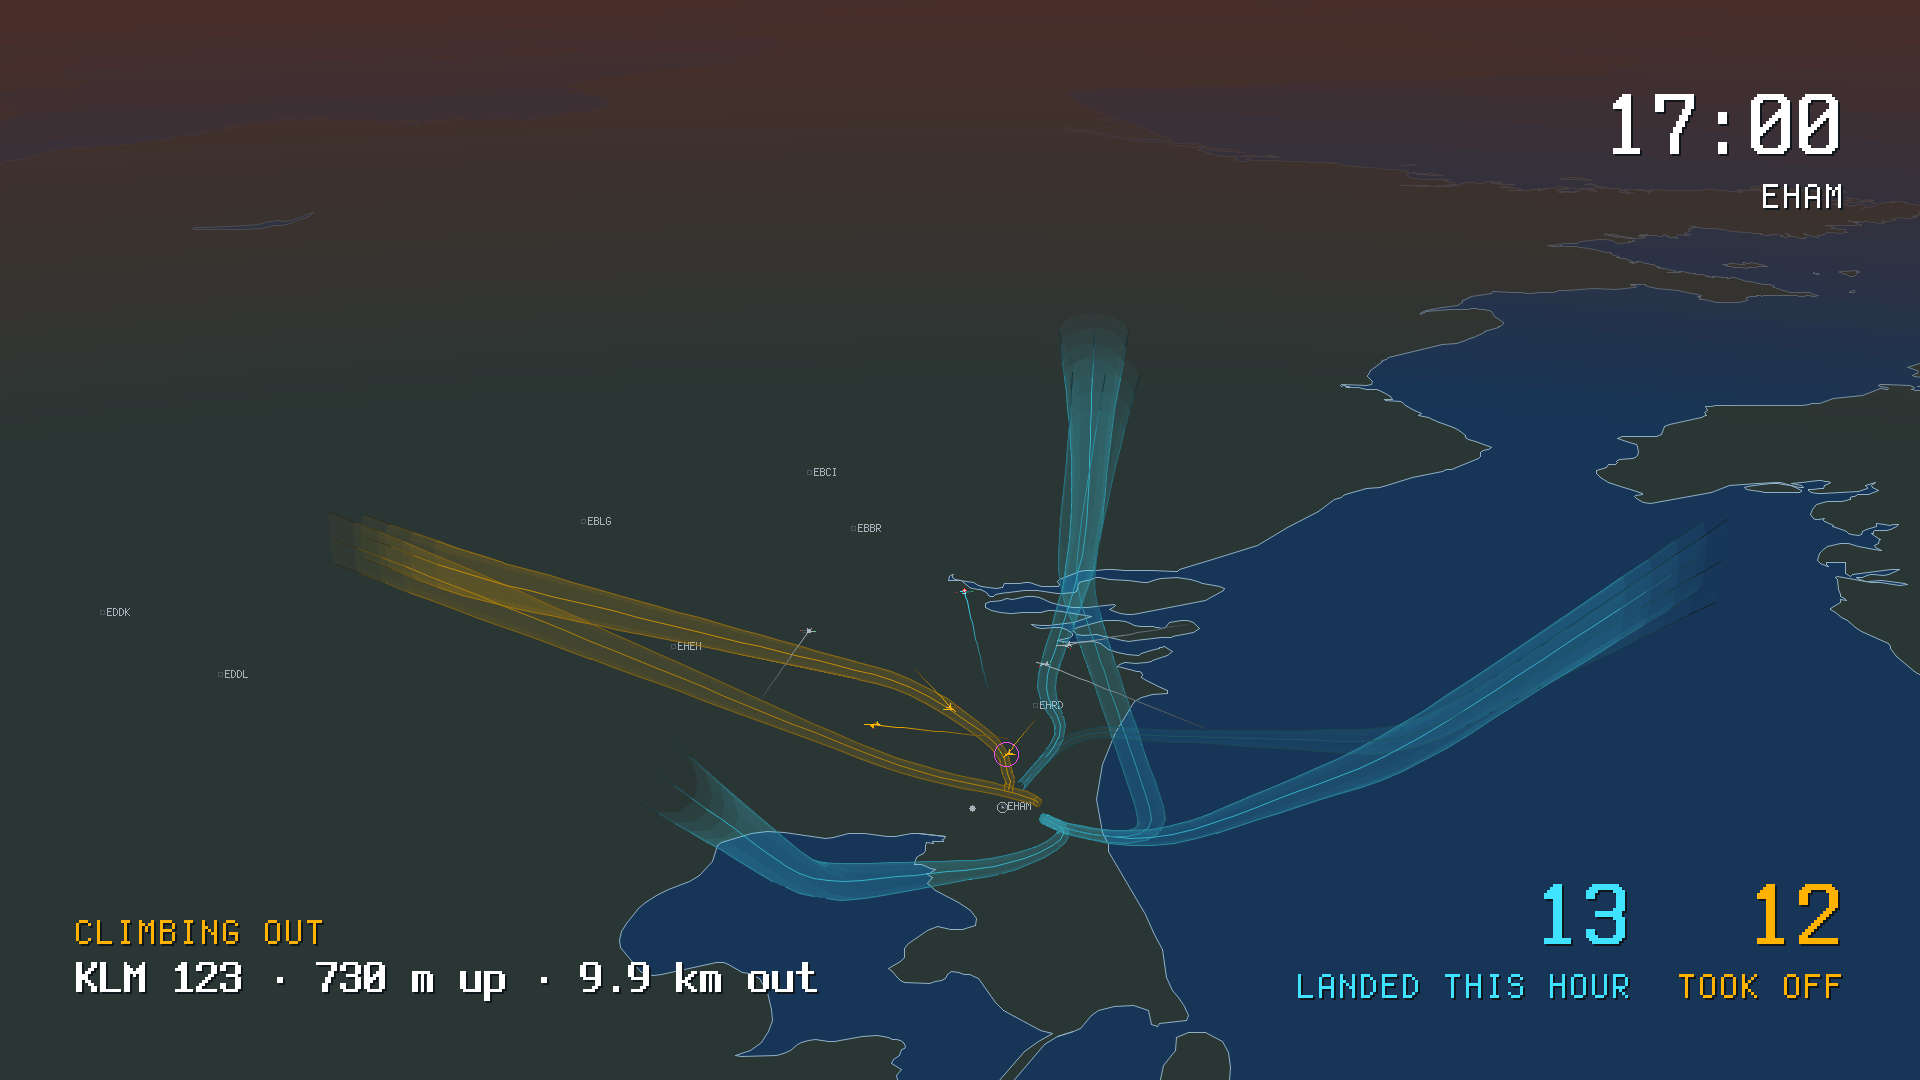
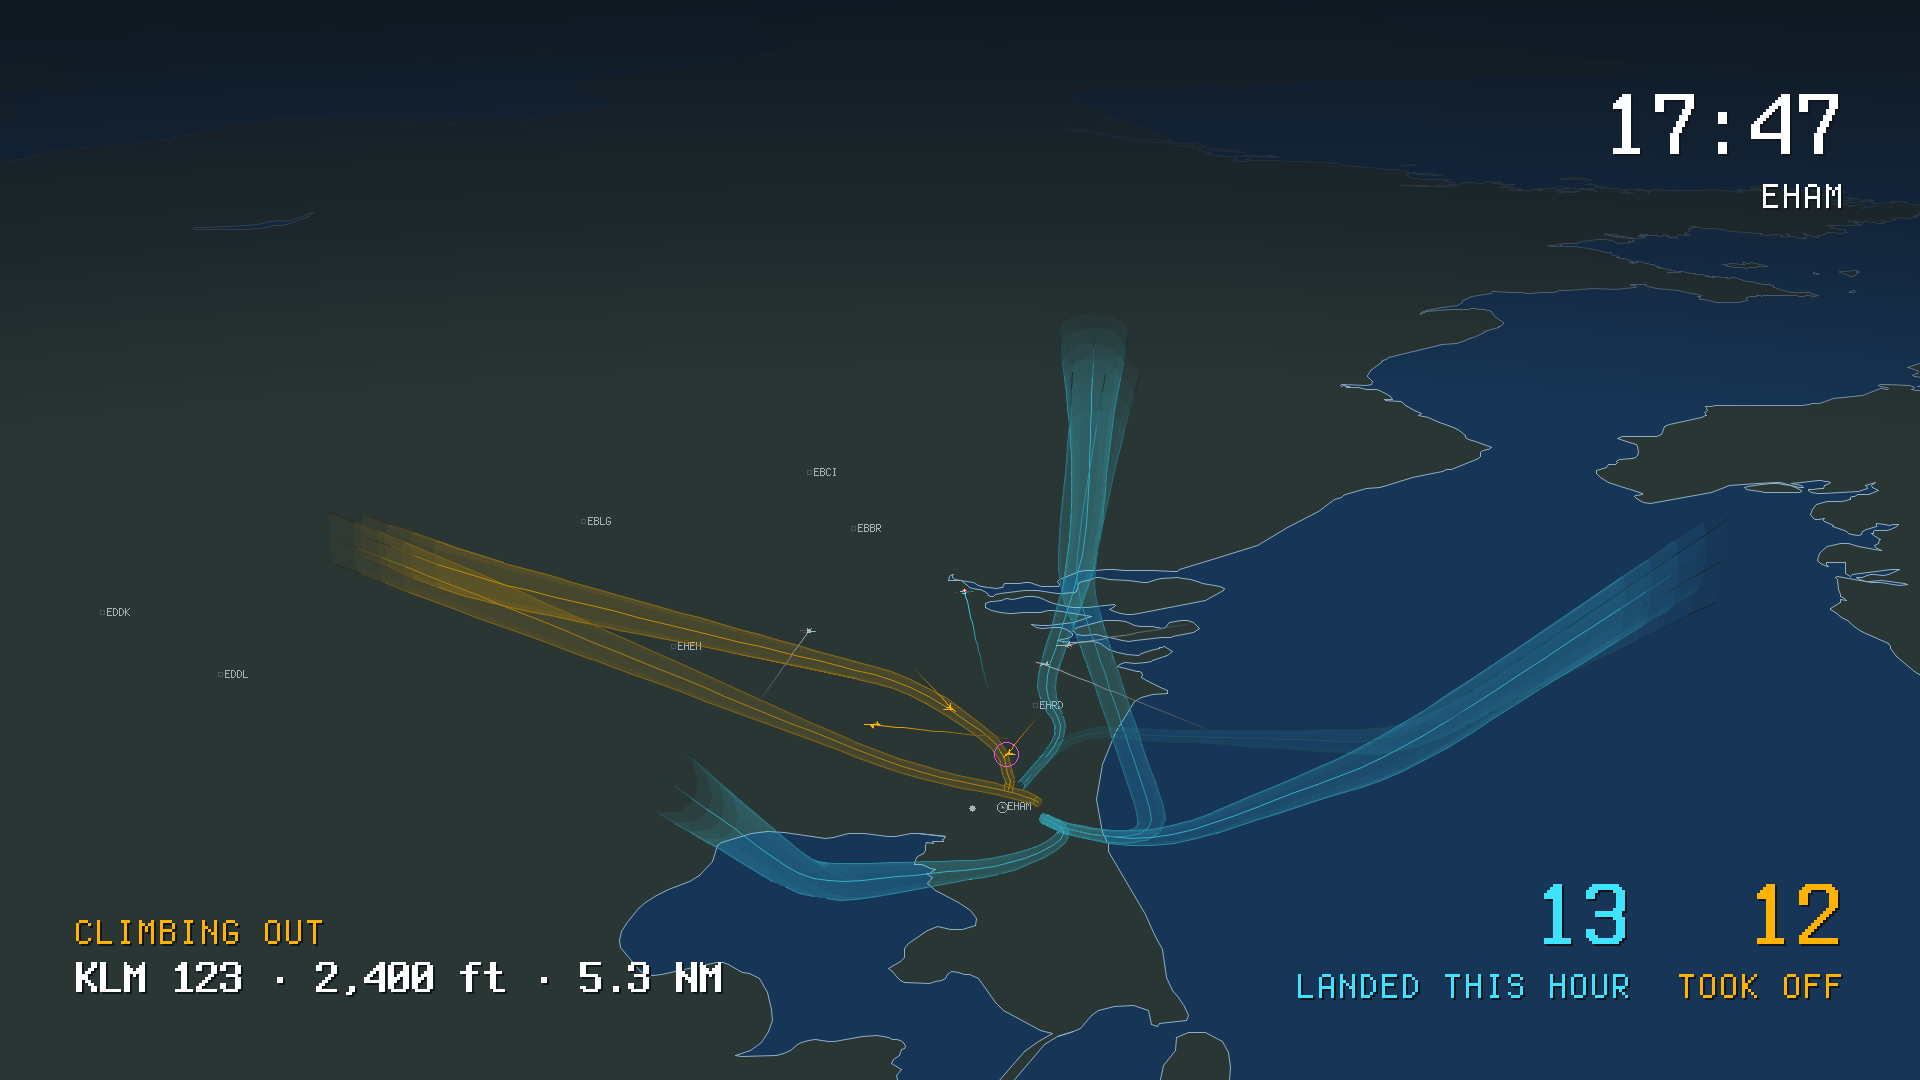
Give the window caption in feet and nautical miles
uScope keeps aviation's units throughout, so the caption now reads
KLM 123 · 2,400 ft · 5.3 NM: altitude to the nearest 50 ft with thousands
separated, distance in tenths of a mile under 10 NM. The reach is 15 NM for
arrivals and 8 NM for departures. captionHeight is the one place the height
comes from. The fallback stills now use a Swiss callsign, since Corendon's
name fits beside the count in the shorter units.

Changed region(s): [[0.0, 0.0, 1.0, 0.2444], [0.3125, 0.8861, 0.4375, 0.9167], [0.1562, 0.8861, 0.2812, 0.9167]]

diff --git a/internal/radar/window.go b/internal/radar/window.go
@@ -58,11 +58,11 @@ const (
 	// windowTracking spaces the small capitals out by one glyph pixel.
 	windowTracking = 1
 
-	// arrivalReachKm and departureReachKm are how close to the field an
+	// arrivalReachNm and departureReachNm are how close to the field an
 	// aircraft has to be for the caption to name it. An arrival is worth
 	// watching from further out, since it is coming towards the field.
-	arrivalReachKm   = 25.0
-	departureReachKm = 15.0
+	arrivalReachNm   = 15.0
+	departureReachNm = 8.0
 
 	// captionHold is the shortest time the caption stays on one aircraft, so
 	// it is on screen long enough to read before it moves to another.
@@ -75,35 +75,30 @@ const (
 	// so the figure does not drop to zero on the hour.
 	movementWindow = time.Hour
 
-	// kmPerNm and metresPerFoot turn the scene's nautical units into the
-	// metric ones a general audience reads.
-	kmPerNm       = 1.852
-	metresPerFoot = 0.3048
+	// feetStep rounds the caption's height to 50 ft. Altitude is reported
+	// in 25 ft steps, and a figure that flickers between two of them on
+	// every report is harder to read from across a room than it is worth.
+	feetStep = 50
 
-	// metresStep rounds a height to tens of metres. A pressure altitude is
-	// reported in 25 ft steps, so the last metre would be a figure nobody
-	// measured.
-	metresStep = 10
-
-	// tenthsBelowKm is the distance under which the caption gives tenths of
-	// a kilometre, because a final approach covers the last ten in a few
+	// tenthsBelowNm is the distance under which the caption gives tenths of
+	// a nautical mile, because a final approach covers the last ten in a few
 	// minutes and a whole number would sit still for most of it.
-	tenthsBelowKm = 10
+	tenthsBelowNm = 10
 
 	// callsignPrefix is how many letters of a callsign name the operator.
 	callsignPrefix = 3
 )
 
-// The overlay's words. The caption's units follow the owner's ruling that the
-// audience is the general public: metres up and kilometres out.
+// The overlay's words. The caption keeps aviation's units, as the rest of the
+// scope does: altitude in feet and distance in nautical miles.
 const (
 	captionInText    = "COMING IN NOW"
 	captionOutText   = "CLIMBING OUT"
 	landedLabel      = "LANDED THIS HOUR"
 	tookOffLabel     = "TOOK OFF"
 	captionSeparator = " · "
-	captionUp        = " m up"
-	captionOut       = " km out"
+	captionFeet      = " ft"
+	captionNm        = " NM"
 	captionSpace     = " "
 )
 
@@ -120,12 +115,12 @@ type caption struct {
 	name     string
 	number   string
 	callsign string
-	metres   float64
-	km       float64
+	nm       float64
 
 	// latitude, longitude and altitudeFt are where the aircraft was last
 	// seen, which is where its ring stays while the caption fades out after
-	// the aircraft has left the frame.
+	// the aircraft has left the frame. altitudeFt is also what captionHeight
+	// turns into the caption's height.
 	latitude, longitude, altitudeFt float64
 
 	// shownAt is the render clock the caption came up at, and leaveAt the
@@ -240,8 +235,8 @@ func (s *Scene) drawWindowClock(lay *layout, win *windowLayout, frame source.Fra
 
 // followCaption decides which aircraft the caption is on for this frame.
 //
-// The nearest arrival within arrivalReachKm wins, then the nearest departure
-// within departureReachKm. Once on an aircraft the caption keeps it for at
+// The nearest arrival within arrivalReachNm wins, then the nearest departure
+// within departureReachNm. Once on an aircraft the caption keeps it for at
 // least captionHold, then goes when the aircraft stops qualifying or when a
 // departure is held and an arrival has turned up. It always fades out before
 // it changes aircraft, so two names never cross on screen. An aircraft that
@@ -334,7 +329,7 @@ type captionPick struct {
 func (s *Scene) captionCandidate(frame source.Frame) captionPick {
 	arrival := captionPick{class: source.TrackInbound}
 	departure := captionPick{class: source.TrackOutbound}
-	arrivalKm, departureKm := math.Inf(1), math.Inf(1)
+	arrivalNm, departureNm := math.Inf(1), math.Inf(1)
 
 	for _, plane := range frame.Planes {
 		class, near := s.captionClass(plane, frame.Corridors)
@@ -342,13 +337,13 @@ func (s *Scene) captionCandidate(frame source.Frame) captionPick {
 			continue
 		}
 
-		distanceKm := frame.Corridors.Field.DistanceToNm(plane.Latitude, plane.Longitude) * kmPerNm
+		distanceNm := frame.Corridors.Field.DistanceToNm(plane.Latitude, plane.Longitude)
 
 		switch {
-		case class == source.TrackInbound && distanceKm < arrivalKm:
-			arrival.plane, arrival.found, arrivalKm = plane, true, distanceKm
-		case class == source.TrackOutbound && distanceKm < departureKm:
-			departure.plane, departure.found, departureKm = plane, true, distanceKm
+		case class == source.TrackInbound && distanceNm < arrivalNm:
+			arrival.plane, arrival.found, arrivalNm = plane, true, distanceNm
+		case class == source.TrackOutbound && distanceNm < departureNm:
+			departure.plane, departure.found, departureNm = plane, true, distanceNm
 		default:
 		}
 	}
@@ -372,13 +367,13 @@ func (s *Scene) captionClass(plane airplane.Snapshot, field source.Corridors) (s
 	}
 
 	class := field.Classify(plane)
-	distanceKm := field.Field.DistanceToNm(plane.Latitude, plane.Longitude) * kmPerNm
+	distanceNm := field.Field.DistanceToNm(plane.Latitude, plane.Longitude)
 
 	switch class {
 	case source.TrackInbound:
-		return class, distanceKm <= arrivalReachKm
+		return class, distanceNm <= arrivalReachNm
 	case source.TrackOutbound:
-		return class, distanceKm <= departureReachKm
+		return class, distanceNm <= departureReachNm
 	case source.TrackTransit:
 		fallthrough
 	default:
@@ -417,8 +412,15 @@ func (c *caption) describe(plane airplane.Snapshot, field source.Airfield) {
 	}
 
 	c.latitude, c.longitude, c.altitudeFt = plane.Latitude, plane.Longitude, plane.Altitude
-	c.metres = plane.Altitude * metresPerFoot
-	c.km = field.DistanceToNm(plane.Latitude, plane.Longitude) * kmPerNm
+	c.nm = field.DistanceToNm(plane.Latitude, plane.Longitude)
+}
+
+// captionHeight is the height the caption gives for an altitude, both in
+// feet, and false when there is none to give. A snapshot says it has no
+// altitude with zero, and a figure at or under it is not worth a caption.
+// It is the one place the caption's height comes from.
+func (*Scene) captionHeight(altitudeFt float64) (float64, bool) {
+	return altitudeFt, altitudeFt > 0
 }
 
 // alpha is how far the caption has come up, from zero to one.
@@ -507,16 +509,16 @@ func (s *Scene) captionLine(pen *windowPen, alpha float64, form captionForm, dra
 		pen.draw(held.callsign, s.pal.Ink, alpha)
 	}
 
-	if held.metres > 0 {
+	if feet, known := s.captionHeight(held.altitudeFt); known {
 		pen.draw(captionSeparator, s.pal.Ink, alpha)
-		pen.drawBytes(s.metresFigure(held.metres), s.pal.Ink, alpha)
-		pen.draw(captionUp, s.pal.Ink, alpha)
+		pen.drawBytes(s.feetFigure(feet), s.pal.Ink, alpha)
+		pen.draw(captionFeet, s.pal.Ink, alpha)
 	}
 
 	if form != formNoDistance {
 		pen.draw(captionSeparator, s.pal.Ink, alpha)
-		pen.drawBytes(s.kmFigure(held.km), s.pal.Ink, alpha)
-		pen.draw(captionOut, s.pal.Ink, alpha)
+		pen.drawBytes(s.nmFigure(held.nm), s.pal.Ink, alpha)
+		pen.draw(captionNm, s.pal.Ink, alpha)
 	}
 
 	end := pen.x
@@ -525,19 +527,20 @@ func (s *Scene) captionLine(pen *windowPen, alpha float64, form captionForm, dra
 	return end
 }
 
-// metresFigure writes a height to the nearest ten metres.
-func (s *Scene) metresFigure(metres float64) []byte {
-	return s.whole(math.Round(metres/metresStep) * metresStep)
+// feetFigure writes a height to the nearest feetStep, with the thousands
+// separated the way the scope's other altitudes are.
+func (s *Scene) feetFigure(feet float64) []byte {
+	return s.thousands(math.Round(feet/feetStep) * feetStep)
 }
 
-// kmFigure writes a distance in tenths under tenthsBelowKm and in whole
-// kilometres from there out.
-func (s *Scene) kmFigure(km float64) []byte {
-	if km < tenthsBelowKm {
-		return s.fixed(km, 1)
+// nmFigure writes a distance in tenths under tenthsBelowNm and in whole
+// nautical miles from there out.
+func (s *Scene) nmFigure(nm float64) []byte {
+	if nm < tenthsBelowNm {
+		return s.fixed(nm, 1)
 	}
 
-	return s.whole(km)
+	return s.whole(nm)
 }
 
 // measureMovements is the x the hourly count starts at, measured before

diff --git a/internal/radar/window_internal_test.go b/internal/radar/window_internal_test.go
@@ -16,11 +16,11 @@ import (
 // The aircraft the caption tests place east of boardCorridors' field, in
 // nautical miles, and how they fly there.
 const (
-	windowArrivalNm      = 12.0 // 22 km, inside the arrival reach
+	windowArrivalNm      = 12.0 // inside the arrival reach
 	windowNearArrivalNm  = 8.0
-	windowFarArrivalNm   = 16.0 // 30 km, outside it
-	windowDepartureNm    = 5.0  // 9 km, inside the departure reach
-	windowFarDepartureNm = 10.0 // 18.5 km, outside it
+	windowFarArrivalNm   = 16.0 // outside it
+	windowDepartureNm    = 5.0  // inside the departure reach
+	windowFarDepartureNm = 10.0 // outside it
 
 	windowDescentFpm = -800
 	windowClimbFpm   = 1500
@@ -317,11 +317,11 @@ func TestCaptionDescribe(t *testing.T) {
 		altitudeFt           float64
 		wantName, wantNumber string
 		wantCallsign         string
-		wantMetres           float64
+		wantFeet             float64
 	}{
 		{
 			name: "a known operator", icao: lightICAO, callsign: "KLM1452 ", altitudeFt: 2100,
-			wantName: sampleICAO, wantNumber: "1452", wantCallsign: "KLM1452", wantMetres: 2100 * metresPerFoot,
+			wantName: sampleICAO, wantNumber: "1452", wantCallsign: "KLM1452", wantFeet: 2100,
 		},
 		{
 			name: "an unknown prefix", icao: lightICAO, callsign: windowUnknownCallsign,
@@ -352,12 +352,12 @@ func TestCaptionDescribe(t *testing.T) {
 					held.name, held.number, testCase.wantName, testCase.wantNumber)
 			}
 
-			if held.metres != testCase.wantMetres {
-				t.Errorf("describe() metres = %v, want %v", held.metres, testCase.wantMetres)
+			if held.altitudeFt != testCase.wantFeet {
+				t.Errorf("describe() altitude = %v ft, want %v", held.altitudeFt, testCase.wantFeet)
 			}
 
-			if wantKm := windowDepartureNm * kmPerNm; math.Abs(held.km-wantKm) > 1e-6 {
-				t.Errorf("describe() km = %v, want %v", held.km, wantKm)
+			if math.Abs(held.nm-windowDepartureNm) > 1e-6 {
+				t.Errorf("describe() distance = %v NM, want %v", held.nm, windowDepartureNm)
 			}
 		})
 	}
@@ -373,12 +373,36 @@ func TestCaptionFigures(t *testing.T) {
 		got  func() []byte
 		want string
 	}{
-		{name: "metres to the nearest ten", got: func() []byte { return scene.metresFigure(644) }, want: "640"},
-		{name: "tenths close in", got: func() []byte { return scene.kmFigure(4.24) }, want: "4.2"},
-		{name: "whole kilometres further out", got: func() []byte { return scene.kmFigure(13.4) }, want: "13"},
+		{name: "feet down to the nearest fifty", got: func() []byte { return scene.feetFigure(2424) }, want: "2,400"},
+		{name: "feet up to the nearest fifty", got: func() []byte { return scene.feetFigure(675) }, want: "700"},
+		{name: "tenths close in", got: func() []byte { return scene.nmFigure(4.24) }, want: "4.2"},
+		{name: "whole miles further out", got: func() []byte { return scene.nmFigure(13.4) }, want: "13"},
 	} {
 		if got := string(testCase.got()); got != testCase.want {
 			t.Errorf("%s: %q, want %q", testCase.name, got, testCase.want)
+		}
+	}
+}
+
+// TestCaptionHeight checks the caption's height is the altitude in feet,
+// and that a zero or negative altitude gives none.
+func TestCaptionHeight(t *testing.T) {
+	t.Parallel()
+
+	var scene Scene
+
+	for _, testCase := range []struct {
+		altitudeFt float64
+		known      bool
+	}{
+		{altitudeFt: 2400, known: true},
+		{altitudeFt: 0},
+		{altitudeFt: -100},
+	} {
+		got, known := scene.captionHeight(testCase.altitudeFt)
+		if known != testCase.known || (known && got != testCase.altitudeFt) {
+			t.Errorf("captionHeight(%v) = %v, %v, want the same feet, %v",
+				testCase.altitudeFt, got, known, testCase.known)
 		}
 	}
 }
@@ -473,7 +497,7 @@ const windowUnknownCallsign = "ZZZ99"
 
 // windowLongCallsign is a real operator whose name makes the caption's
 // full form too long to sit beside the count at 1080 rows.
-const windowLongCallsign = "CND093P"
+const windowLongCallsign = "SWR52CL"
 
 // TestCaptionFit checks the caption's forms are tried longest first and the
 // first that fits is kept: the full form, the callsign in place of the name,
@@ -486,7 +510,7 @@ func TestCaptionFit(t *testing.T) {
 	canv := boardCanvas(t, 1920, 1080)
 	scene.Draw(canv, 0)
 
-	if scene.caption.name != "Corendon Dutch Airlines" || scene.caption.callsign != windowLongCallsign {
+	if scene.caption.name != "Swiss International Air Lines" || scene.caption.callsign != windowLongCallsign {
 		t.Fatalf("caption on %q %q, want the operator and the callsign", scene.caption.name, scene.caption.callsign)
 	}
 

diff --git a/internal/radar/window_external_test.go b/internal/radar/window_external_test.go
@@ -130,7 +130,7 @@ func TestWindowStaysInItsCorners(t *testing.T) {
 //nolint:paralleltest // AllocsPerRun panics when called from a parallel test.
 func TestWindowDrawAllocations(t *testing.T) {
 	long := windowTestFrame()
-	long.Planes[0].Callsign = "CND093P"
+	long.Planes[0].Callsign = "SWR52CL"
 
 	for _, frame := range []source.Frame{windowTestFrame(), long} {
 		name := frame.Planes[0].Callsign

diff --git a/README.md b/README.md
@@ -253,9 +253,9 @@ EMERGENCY above them while an aircraft is squawking one.
 `--minimal-window on` sets three pieces of type straight on the bare 3D
 picture, for a stream with everything else switched off. The local time sits
 at the top right with the corridor airfield under it. While an arrival is
-within 25 km of that airfield, or a departure within 15 km when there is no
-arrival, the bottom left names it with its height in metres and its distance
-in kilometres; the caption stays on one aircraft for at least eight seconds
+within 15 NM of that airfield, or a departure within 8 NM when there is no
+arrival, the bottom left names it with its altitude in feet and its distance
+in nautical miles; the caption stays on one aircraft for at least eight seconds
 and fades in and out. A thin ring marks that aircraft in the picture for as
 long as its caption shows, and an operator name too long to fit beside the
 count gives way to the callsign. The bottom right counts the arrivals and
